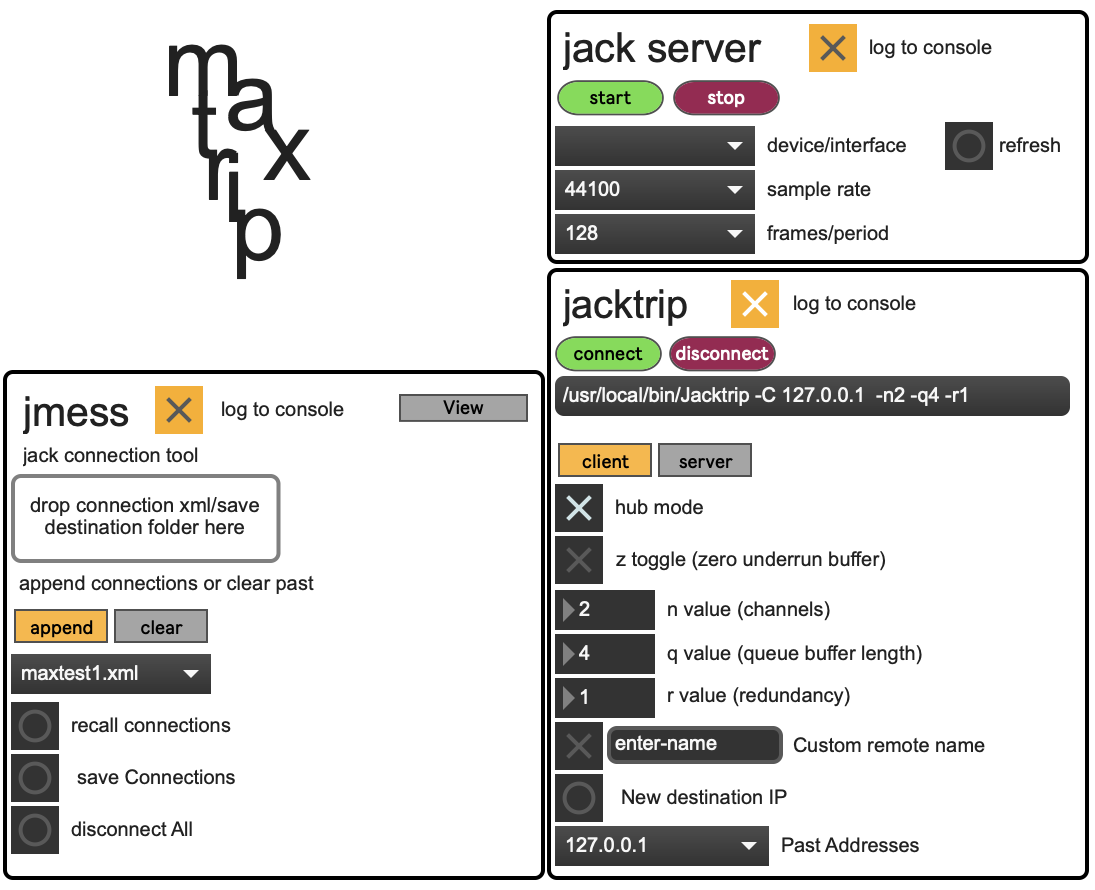
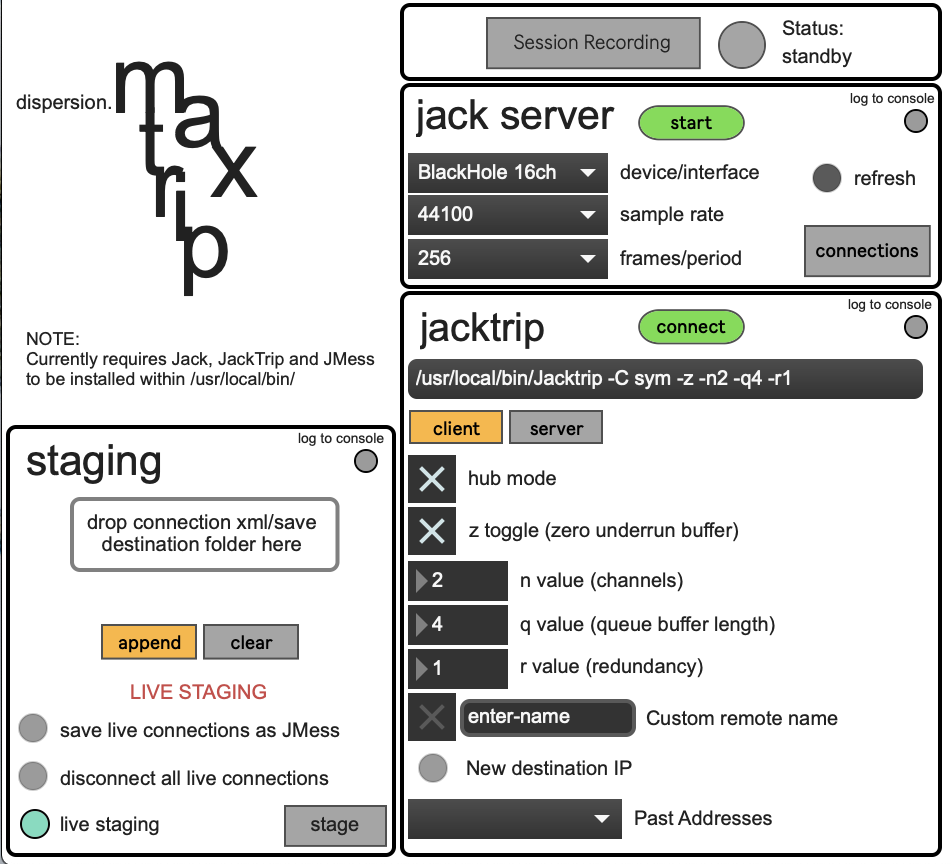
updating maxtrip images and text

diff --git a/projects/maxtrip.html b/projects/maxtrip.html
@@ -73,20 +73,23 @@
 				<div class="row py-lg-1 py-sm-0">
 					<div class="col-lg-6 col-sm-12 px-1 proj">
 						<p>Developed in response to the rising number of multi-platform telematic activities happening
-							within the lab during the pandemic,
+							within the <a href="http://dispersionlab.org/">DisPerSion Lab</a> during the pandemic,
 							MaxTrip was designed to control all aspects of the JackTrip startup and connection process
 							within Max,
 							lowering the barrier of entry for students and performers with Max experience but without
 							practical JackTrip knowledge.
 							Its use also allows for greater control and flexibility of established JackTrip connections
 							for both users and technicians.</p>
+
 						<p>Using the <a href="https://github.com/jeremybernstein/shell" target="_blank">shell.mxo</a>
 							external, Max can execute terminal commands from within the programming environment and can
 							effectively run the Jack ecosystem of programs.
 							The patch consists of three modules, each containing its own shell.mxo in order to run
 							multiple terminal commands simultaneously.</p>
+
 						<p>The first module allows users to start the Jack server, choosing their desired
 							device/interface, sample rate, and frames/period.</p>
+
 						<p>The second runs JackTrip, with the option of server or client, hub mode, z-toggle (zero
 							underrun buffer), q value (queue buffer length),
 							r value (redundancy), setting a custom remote name, and destination IP. Past addresses are
@@ -95,35 +98,49 @@
 							user interface for hosting or connecting to a remote
 							JackTrip server. This however is a separate application, where maxtrip allows users to stay
 							within the Max ecosystem.</p>
-						<p>The final maxtrip module communicates with JMess which allows users to save xml files of
-							established Jack connections.
-							Users are able to drag a folder of their saved connections into Max to display all viable
-							xmls in a dropdown. When an xml is selected,
-							users can press “view” to get a visualization of each saved connection in that file without
-							recalling the connections into JackTrip.
-							Connections can be recalled with an option to “clear” or “append”.</p>
-						<p>“Clear” will send a message to JackTrip to disconnect all active connections, then load and
-							establish the saved connections from the chosen xml file.
-							“Append” will load and make connections from the chosen xml without clearing the current
-							connections, effectively allowing multiple mappings to be stacked upon each other.</p>
-						<p>Presented in Hoy R., D. Van Nort, "A Technological and Methodological Ecosystem for Dynamic
+
+						<p>"Staging" is the final module, allowing for various control over live and preset connections.
+							Users can
+							make alterations and "stage" their intended future connections before "pushing" these to the
+							live connection graph. These connections can be appended to what is already connected, or
+							sent with the "clear" message to wipe all current connections and establish the staged
+							connections as the current live connections. Additionally, connections can be saved and
+							recalled from both the live connection graph or from within the staging area. The staging
+							module uses JMess, allowing for .xml storage and retrieval of desired connections. </p>
+
+						<p>Users are able to drag a folder of their saved connections into Max to display all viable
+							.xml files in a dropdown which is visible when not in "Live Staging" mode. When an xml is
+							selected, “stage” can be pressed to get a visualization of each saved connection in that
+							file without recalling the connections into JackTrip.</p>
+
+						<iframe width="560" height="315" src="https://www.youtube.com/embed/sYuNwJXmKe8"
+							title="YouTube video player" frameborder="0"
+							allow="accelerometer; autoplay; clipboard-write; encrypted-media; gyroscope; picture-in-picture"
+							allowfullscreen></iframe>
+
+
+						<br><br>
+						<p>Presented in Hoy R., D. Van Nort, "A Technological and Methodological Ecosystem for
+							Dynamic
 							Virtual Acoustics in Telematic Performance Contexts", in Proc. of Audio Mostly, 2021. <a
 								href="https://dl.acm.org/doi/fullHtml/10.1145/3478384.3478425" target="_blank">[ACM
 								Digital Library]</a>, alongside <a href="../projects/spat.html"
 								target="_blank">dispersion.Spat</a>.</p>
 
-								Audio Mostly 21 Presentation:
+						Audio Mostly 21 Presentation:
 						<iframe width="560" height="315" src="https://www.youtube.com/embed/llPxde_pRqQ"
 							title="YouTube video player" frameborder="0"
 							allow="accelerometer; autoplay; clipboard-write; encrypted-media; gyroscope; picture-in-picture"
 							allowfullscreen></iframe>
+
 					</div>
 					<div class="col-lg-6 col-sm-12 px-1 proj">
 						<img src="/images/maxtrip/maxtrip1.png" class="img-fluid rounded proj-page-thumb"
 							alt="MaxTrip central UI">
-							<br> <br>
+						<br><br>
 						<img src="/images/maxtrip/maxtrip2-jmess.png" class="img-fluid rounded proj-page-thumb"
-							alt="Jmess control in MaxTrip">
+							alt="Staging module in MaxTrip">
+
 					</div>
 				</div>
 			</div>
